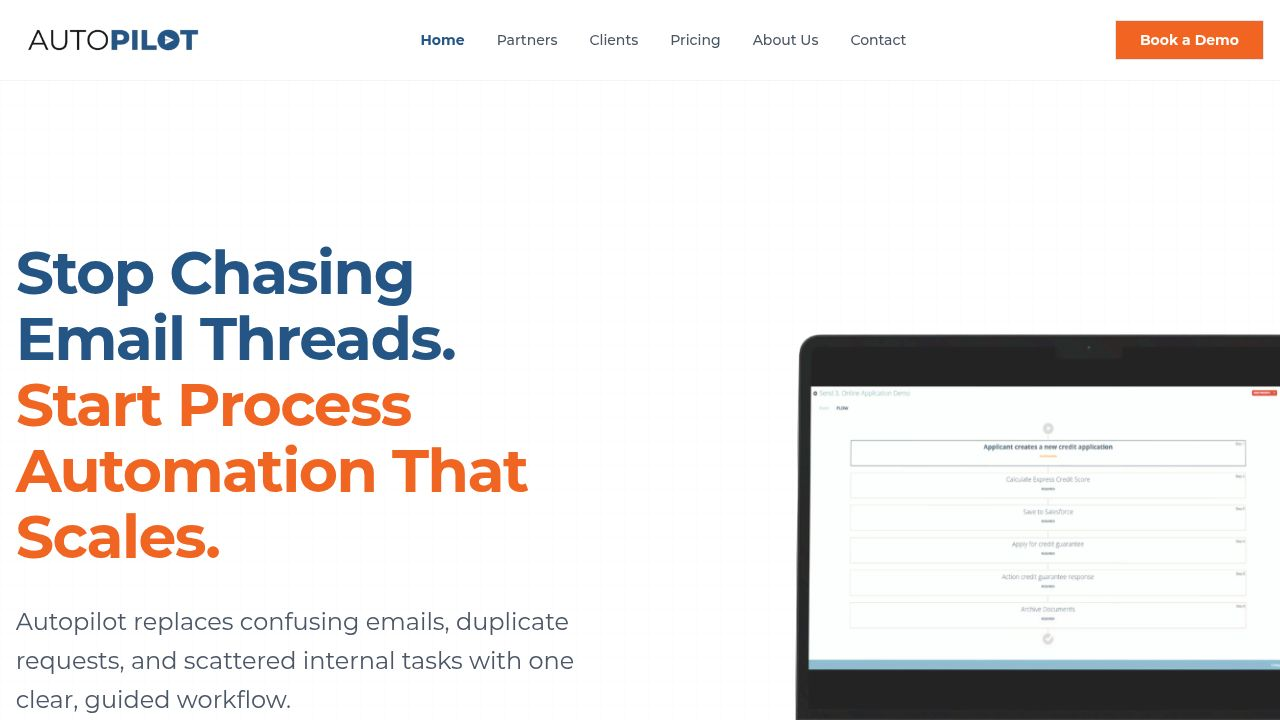
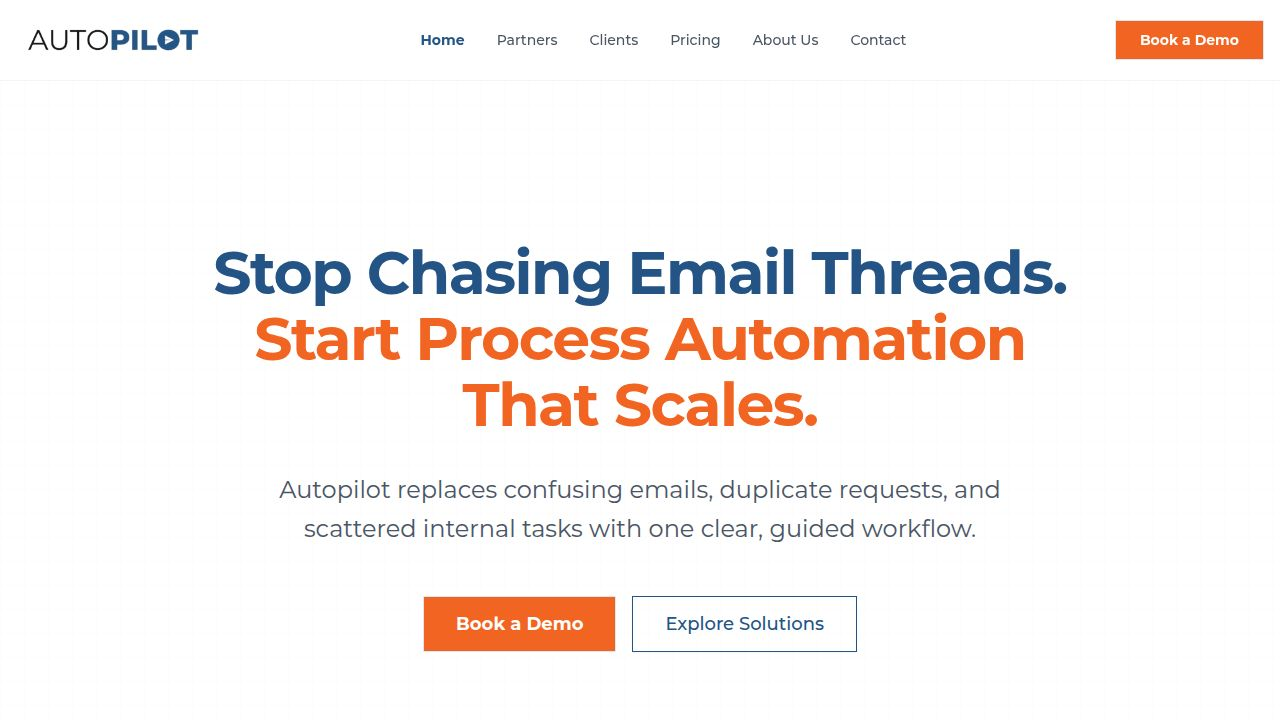
Center homepage content and remove header image
Removed the header laptop image and centered the text and buttons on the homepage.

Replit-Commit-Author: Agent
Replit-Commit-Session-Id: 1d6aa5a3-c725-4513-95a0-bf5fce5568c8
Replit-Commit-Checkpoint-Type: full_checkpoint
Replit-Commit-Event-Id: 3fc57b1f-f32a-41c8-a807-78d4dec0af96
Replit-Commit-Screenshot-Url: https://storage.googleapis.com/screenshot-production-us-central1/aca7a7d1-d848-433e-8ce3-e55676169eb2/1d6aa5a3-c725-4513-95a0-bf5fce5568c8/OKtt5xr
Replit-Helium-Checkpoint-Created: true

diff --git a/client/src/pages/home.tsx b/client/src/pages/home.tsx
@@ -44,24 +44,24 @@ export default function Home() {
         </div>
         
         <div className="container mx-auto px-4 relative z-10">
-          <div className="grid grid-cols-1 lg:grid-cols-2 gap-12 lg:gap-24 items-center">
-            {/* Left Column: Text Content */}
+          <div className="max-w-4xl mx-auto text-center">
+            {/* Centered Text Content */}
             <motion.div 
-              initial={{ opacity: 0, x: -20 }}
-              animate={{ opacity: 1, x: 0 }}
+              initial={{ opacity: 0, y: 20 }}
+              animate={{ opacity: 1, y: 0 }}
               transition={{ duration: 0.8 }}
-              className="space-y-8 text-center lg:text-left z-10"
+              className="space-y-8 z-10"
             >
               <h1 className="text-4xl md:text-6xl md:leading-[1.1] font-bold text-primary tracking-tight">
                 Stop Chasing Email Threads. <br className="hidden md:block" />
                 <span className="text-accent">Start Process Automation That Scales.</span>
               </h1>
               
-              <p className="text-xl md:text-2xl text-gray-600 leading-relaxed">
+              <p className="text-xl md:text-2xl text-gray-600 leading-relaxed max-w-3xl mx-auto">
                 Autopilot replaces confusing emails, duplicate requests, and scattered internal tasks with one clear, guided workflow.
               </p>
 
-              <div className="flex flex-col sm:flex-row gap-4 pt-4 justify-center lg:justify-start">
+              <div className="flex flex-col sm:flex-row gap-4 pt-4 justify-center">
                 <Link href="/book-demo" data-testid="link-book-demo-hero">
                   <Button
                     size="lg"
@@ -78,26 +78,6 @@ export default function Home() {
                 </a>
               </div>
             </motion.div>
-
-            {/* Right Column: Laptop Image */}
-            <motion.div 
-              initial={{ opacity: 0, x: 50 }}
-              animate={{ opacity: 1, x: 0 }}
-              transition={{ duration: 0.8, delay: 0.2 }}
-              className="hidden lg:block absolute right-0 top-1/2 -translate-y-1/2 w-[75vw] z-20"
-              style={{ right: 'calc(50% - 50vw)' }}
-            >
-               <img 
-                 src={Autopilot_app_screenshot_in_laptop} 
-                 alt="Autopilot Dashboard" 
-                 className="w-full h-auto object-contain object-right"
-               />
-            </motion.div>
-            
-            {/* Mobile/Tablet Image (visible only on smaller screens) */}
-            <div className="lg:hidden w-full scale-150 origin-top">
-               <img src={Autopilot_app_screenshot_in_laptop} alt="Autopilot Dashboard" className="w-full h-auto" />
-            </div>
           </div>
         </div>
       </section>
